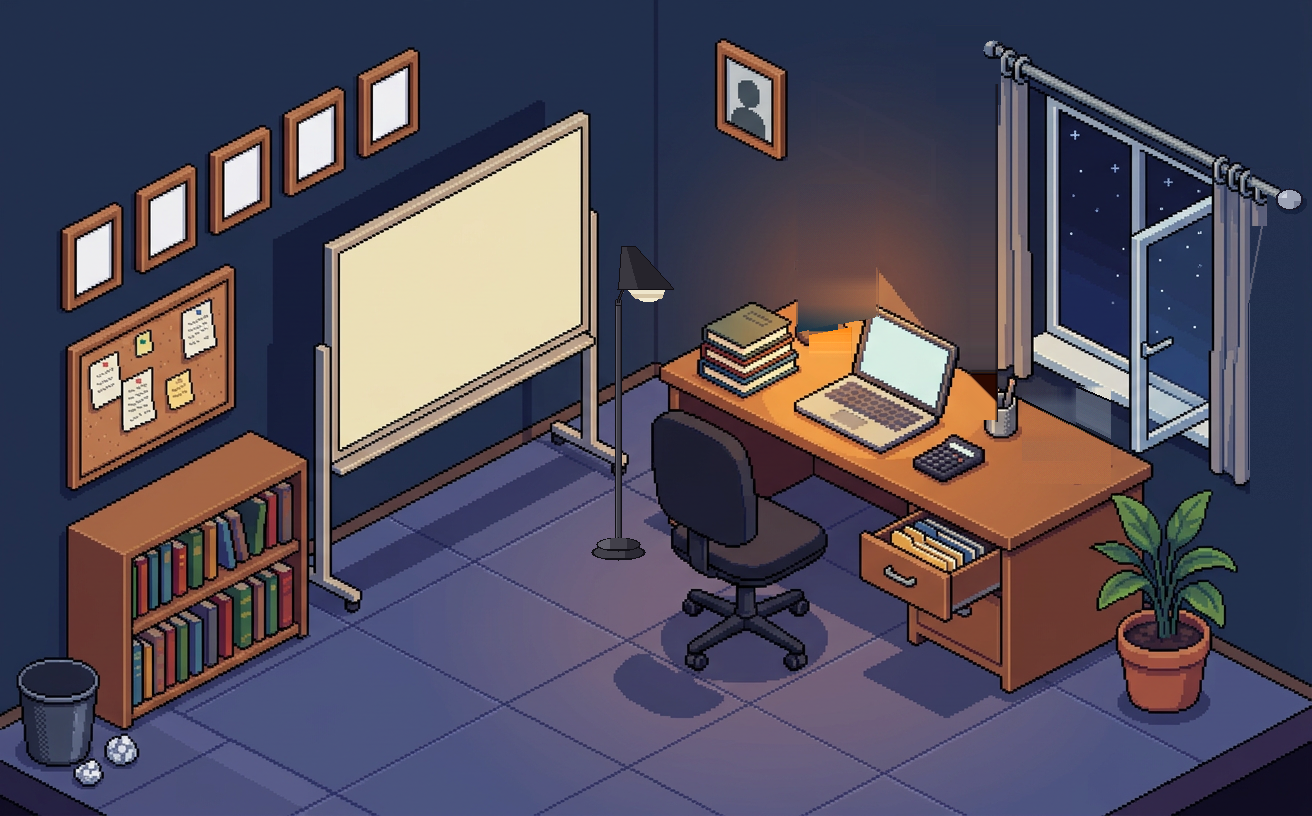
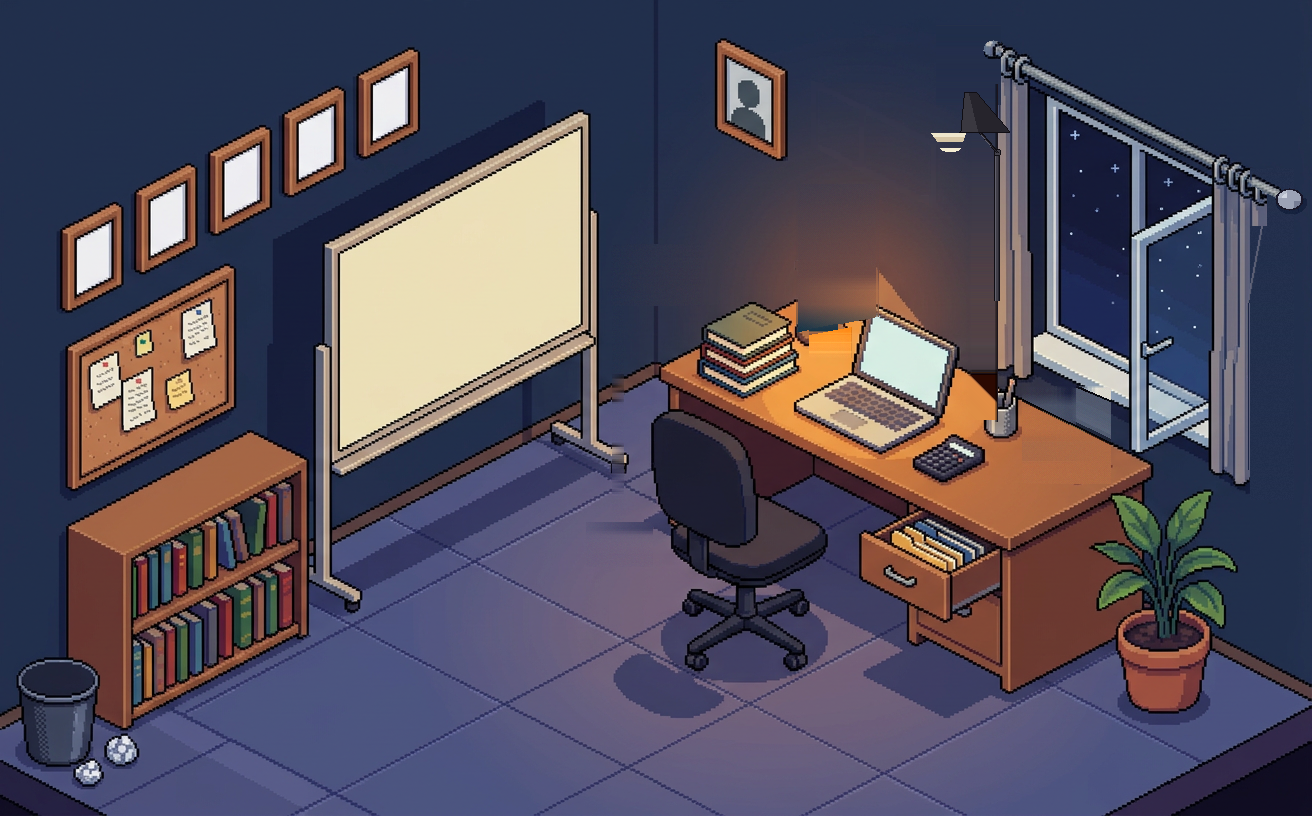
0.15.10: standing lamp dipindah ke sudut atas ruangan (pojok dinding)

Changed region(s): [[0.4375, 0.3064, 0.5312, 0.7047], [0.7188, 0.1225, 0.7812, 0.3676]]

diff --git a/docs/index.html b/docs/index.html
@@ -3,7 +3,7 @@
 <head>
 <meta charset="utf-8">
 <meta name="viewport" content="width=device-width, initial-scale=1">
-<title>Ruang Kelas 0.15.9 — launcher workspace</title>
+<title>Ruang Kelas 0.15.10 — launcher workspace</title>
 <style>
   :root{
     --ink:#0E0D1A; --night:#15142A; --navy:#1D1C36; --panel:#272647;
@@ -33,7 +33,7 @@
 </head>
 <body>
 <header>
-  <h1>Ruang Kelas 0.15.9 · Launcher</h1>
+  <h1>Ruang Kelas 0.15.10 · Launcher</h1>
   <div class="sub">
     Satu layar saja: gambar workspace isometrik ukuran penuh. Tidak ada sidebar, tab, header,
     atau panel. Setiap objek di gambar bisa diketuk dan akan membuka aplikasi bawaannya —
@@ -46,7 +46,7 @@
     Di versi 0.15.5 gorden kiri dan relnya kembali ringkas — kain kiri 36 px (dari 58 px)
     dan rel mulai di ujung jendela, jadi dinding kiri tidak lagi tertutup.
   </div>
-  <a class="cta" href="../dist/RuangKelas-0.15.9-debug.apk" download>⬇ Unduh APK 0.15.7</a>
+  <a class="cta" href="../dist/RuangKelas-0.15.10-debug.apk" download>⬇ Unduh APK 0.15.7</a>
 </header>
 
 <main>

diff --git a/tools/scene_face.py b/tools/scene_face.py
@@ -354,15 +354,15 @@ def night_standing(im):
     px = im.load()
     # interior globe + bohlam: warna gading netral di base (grade menggesernya,
     # jadi dicari lewat rentang, bukan warna persis), dibatasi area shade.
-    for y in range(286, 306):
-        for x in range(615, 675):
+    for y in range(132, 143):
+        for x in range(926, 978):
             r, g, b = px[x, y]
             if r > 165 and g > 150 and b > 115 and r >= b:
-                px[x, y] = (252, 218, 122) if y < 296 else (244, 178, 70)
+                px[x, y] = (252, 218, 122) if y < 137 else (244, 178, 70)
     # pendar lembut di dinding sekitar tudung (radial, hanya piksel navy)
-    cx, cy = 646, 262
-    for y in range(180, 360):
-        for x in range(560, 760):
+    cx, cy = 944, 138
+    for y in range(70, 240):
+        for x in range(852, 1000):
             r, g, b = px[x, y]
             if b <= r:
                 continue                       # bukan dinding navy
@@ -371,18 +371,6 @@ def night_standing(im):
             if w <= 0.02:
                 continue
             px[x, y] = (int(r + (86 - r) * w), int(g + (64 - g) * w), int(b + (58 - b) * w))
-    # kolam cahaya kecil di lantai di sekitar kaki lampu
-    cx, cy, rx, ry = 618, 556, 78, 26
-    for y in range(cy - ry - 5, cy + ry + 5):
-        for x in range(cx - rx - 5, cx + rx + 5):
-            n = ((x - cx) / rx) ** 2 + ((y - cy) / ry) ** 2
-            if n > 1.0:
-                continue
-            r, g, b = px[x, y]
-            if r + g + b < 60:
-                continue
-            w = (1.0 - n) ** 1.5 * 0.4
-            px[x, y] = (int(r + (104 - r) * w), int(g + (82 - g) * w), int(b + (76 - b) * w))
     return im
 
 
@@ -390,8 +378,8 @@ def day_standing_off(im):
     """Siang: kaca globe standing lamp digelapkan (add_daylight membuatnya
     ter-clipping putih seolah menyala)."""
     px = im.load()
-    for y in range(286, 306):
-        for x in range(615, 675):
+    for y in range(132, 143):
+        for x in range(926, 978):
             r, g, b = px[x, y]
             if r > 200 and g > 195 and b > 170:
                 px[x, y] = (176, 166, 148)

diff --git a/README.md b/README.md
@@ -5,16 +5,20 @@ satu layar berisi gambar workspace isometrik ukuran penuh. Tanpa sidebar, tanpa 
 tanpa header, tanpa panel. Setiap objek di gambar bisa diketuk untuk membuka aplikasi
 bawaannya — aplikasi itu dibuat menyusul, satu per satu.
 
-**Status: v0.15.9 — standing lamp ala lampu kerja (lengan artikulasi + tudung
-miring) dipindah ke sebelah papan tulis; sudut ruangan, tepi meja, buku, dan
-laptop yang sempat bergeser di 0.15.8 dikembalikan seperti semula; arah cahaya
-malam tetap sama seperti saat lampu masih di atas meja. Sebelumnya kalender
+**Status: v0.15.10 — standing lamp dipindah ke sudut atas ruangan (pojok
+pertemuan dinding, di antara meja dan papan tulis, tepat kiri gorden);
+sebelumnya sudut ruangan, tepi meja, buku, dan laptop yang sempat bergeser di
+0.15.8 sudah dikembalikan seperti semula; arah cahaya malam tetap sama seperti
+saat lampu masih di atas meja. Sebelumnya kalender
 meja dan jam digital dihapus — pintu ke aplikasi Jadwal kini papan tulis
 berjudul "Jadwal Mengajar"; gorden & daun tanaman bergoyang; rel gorden jadi
 penunjuk baterai dengan persentase tertulis di dinding; tempat sampah membuka
 file manager; suasana siang/malam mengikuti jam perangkat.**
 
-Perbaikan 0.15.9: 0.15.8 ternyata merusak sudut ruangan dan memotong meja,
+Perbaikan 0.15.10: standing lamp berpindah ke sudut atas ruangan — pangkal
+tiangnya berdiri di balik tepi meja tepat di garis pojok dinding, kepala
+lampunya setinggi jendela dan menunduk ke arah meja; bekas posisi lama di
+sebelah papan tulis dirapikan. Dan sebelumnya, 0.15.9: 0.15.8 ternyata merusak sudut ruangan dan memotong meja,
 buku, serta laptop (garis tepi belakang meja terbalik arah) — semuanya
 dikembalikan dari art 0.15.7, lalu hanya fixture lampu mejanya yang dihapus.
 Standing lamp digambar ulang mengikuti referensi lampu kerja lantai dan
@@ -33,7 +37,7 @@ tidak lagi tertutup; garis rel dan angka persentase dibuat lebih tipis/kecil.
 
 | | |
 |---|---|
-| APK siap pasang | [`dist/RuangKelas-0.15.9-debug.apk`](dist/RuangKelas-0.15.9-debug.apk) |
+| APK siap pasang | [`dist/RuangKelas-0.15.10-debug.apk`](dist/RuangKelas-0.15.10-debug.apk) |
 | Build otomatis | [`.github/workflows/android.yml`](.github/workflows/android.yml) |
 | Bukti jalan | [`docs/index.html`](docs/index.html) · [`docs/screens/`](docs/screens) |
 | Prototipe HTML lama | [`preview-ruang-kelas.html`](preview-ruang-kelas.html) (acuan desain) |
@@ -42,7 +46,7 @@ tidak lagi tertutup; garis rel dan angka persentase dibuat lebih tipis/kecil.
 
 ## Cara memasang
 
-1. Unduh `dist/RuangKelas-0.15.9-debug.apk`, buka di tablet, izinkan "instal dari sumber ini".
+1. Unduh `dist/RuangKelas-0.15.10-debug.apk`, buka di tablet, izinkan "instal dari sumber ini".
 2. Buka **Ruang Kelas** — launcher langsung tampil penuh, landscape, tanpa system bar.
 
 ## Mode landscape
@@ -155,6 +159,6 @@ cd android && gradle :app:assembleDebug
 ```
 
 GitHub Actions menjalankan hal yang sama, menyimpan APK ke `dist/`, dan memperbarui
-release `v0.15.9-android`. Workflow kedua (`android-preview.yml`, dipicu
+release `v0.15.10-android`. Workflow kedua (`android-preview.yml`, dipicu
 `.ci/preview.trigger`) memasang APK di emulator tablet 2560 × 1600, memotret launcher,
 mengetuk beberapa objek, lalu menyimpan screenshot ke `docs/screens/`.
